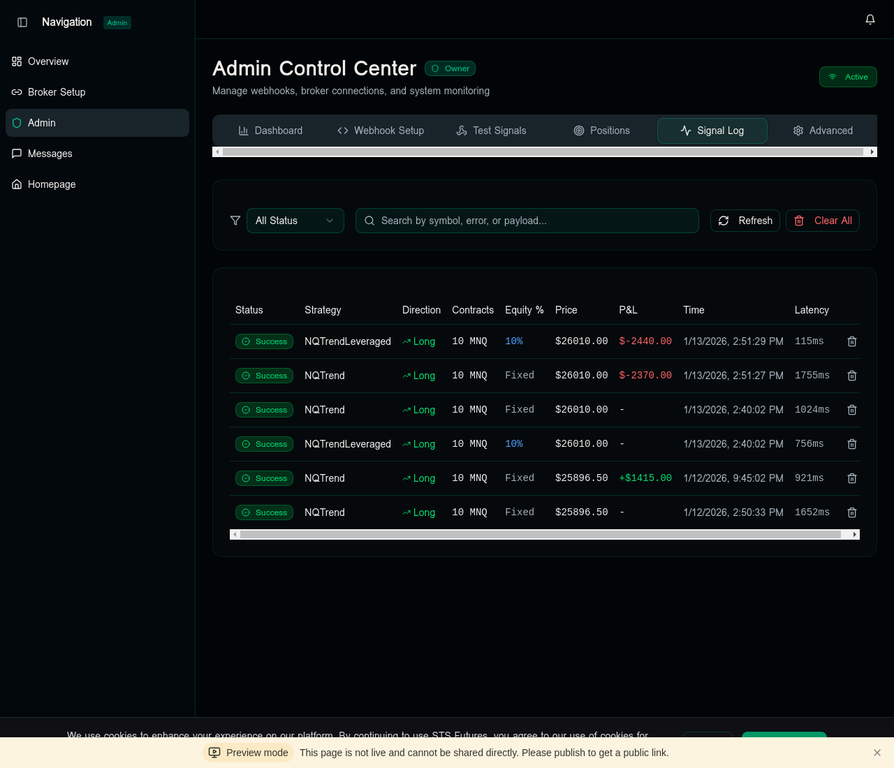
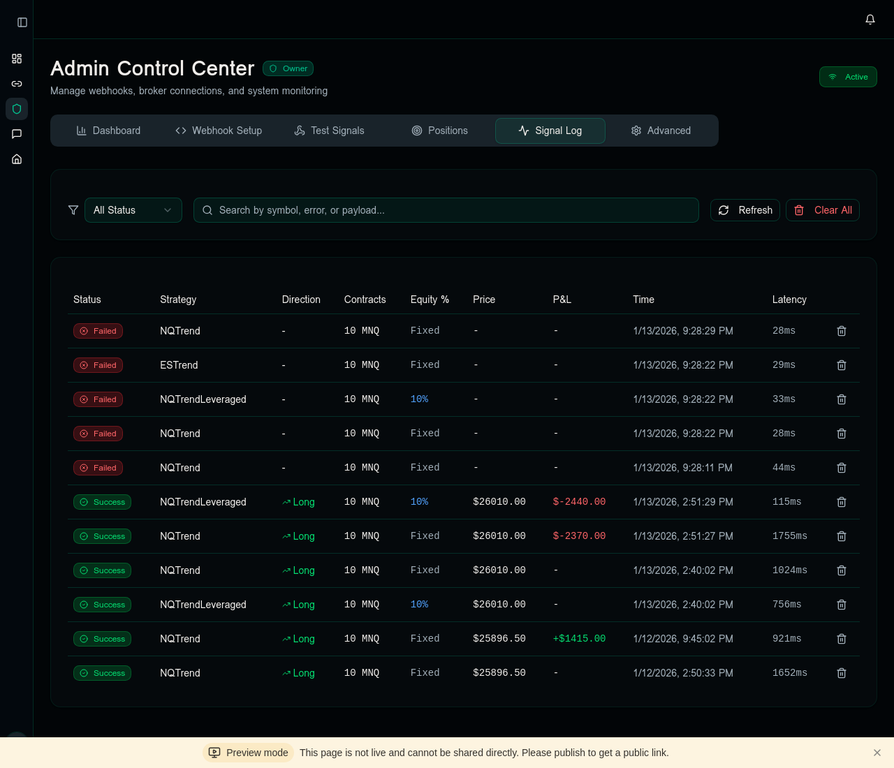
true message

diff --git a/todo.md b/todo.md
@@ -5922,3 +5922,21 @@
 - [x] Add Equity % column to signal log table (shows % for leveraged, "Fixed" for unleveraged)
 - [x] Add new signal-log.webp screenshot for homepage
 - [x] Update Live Trade Alerts card to use new signal-log screenshot
+
+### Sprint 7 Continued - Feature Boxes & Screenshots (Jan 13, 2026)
+
+- [ ] Replace Kelly Calculator box with "All Future Strategies Included"
+- [ ] Replace Account-Based Position Sizing box with "Lock In Your Rate For Life"
+- [ ] Send test webhook signals to populate Signal Log
+- [ ] Take fresh screenshots of Signal Log with Contracts/Equity % columns
+- [ ] Update homepage with new screenshots
+
+### Sprint 7 Completed Items (Jan 13, 2026)
+
+- [x] Replace Kelly Calculator with "All Future Strategies Included" box
+- [x] Replace Account-Based Position Sizing with "Lock In Your Rate For Life" box
+- [x] Add Contracts column to Signal Log (shows micro/mini conversion e.g. "10 MNQ")
+- [x] Add Equity % column to Signal Log (shows "10%" for leveraged, "Fixed" for unleveraged)
+- [x] Take fresh screenshot of Signal Log with new columns
+- [x] Update homepage with new signal-log.webp screenshot
+- [x] Move Dashboard Screenshots section higher on homepage
